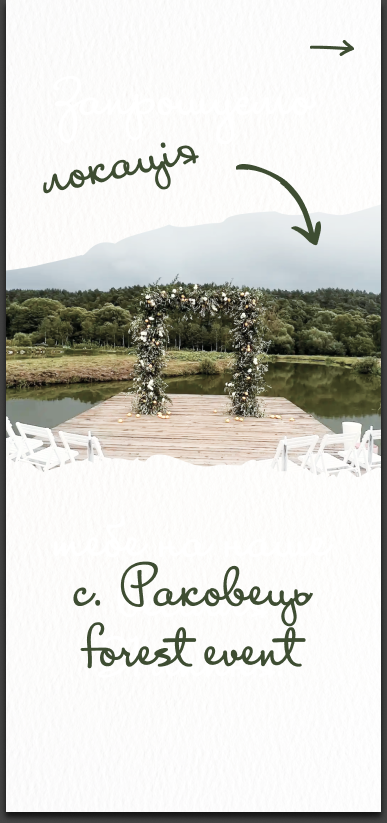
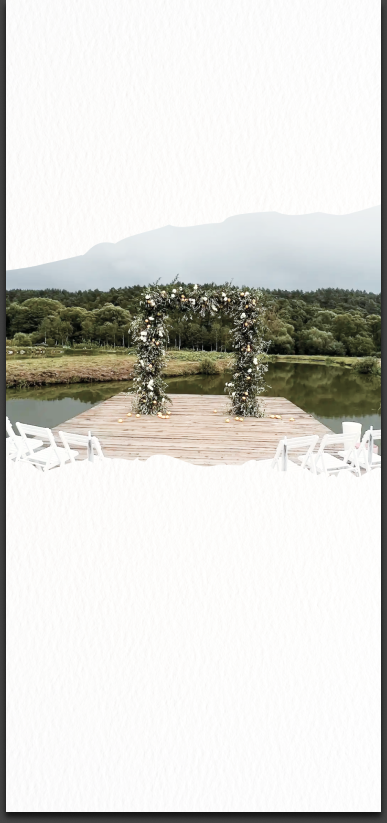
Added images to locations page

diff --git a/src/app/(ui)/[slug]/LocationPage.tsx b/src/app/(ui)/[slug]/LocationPage.tsx
@@ -1,6 +1,33 @@
-const LocationPage = () => (
-  // TODO: обрізається картинка
-  <div className='bg-[url(/location.png)] w-full h-full bg-center bg-cover bg-no-repeat flex justify-end items-start pt-2' />
-);
+import Image from 'next/image';
+
+const LocationPage = () => {
+  // TODO: Fix background
+  // TODO: Fix font
+  // TODO: Fix locations
+  return (
+    <div className='bg-[url(/location.png)] w-full h-screen bg-center bg-cover bg-no-repeat flex p-6'>
+      <button className='w-12.5 h-11'>
+        <Image
+          src='/right-arrow.png'
+          alt='стрілка вправо'
+          width={50}
+          height={14}
+        />
+      </button>
+      <span className=''>Локація</span>
+      <div>
+        <Image
+          src='/arrow-down.png'
+          alt='стрілка вниз'
+          width={85}
+          height={82}
+        />
+      </div>
+      <div className='self-end'>
+        <span className=''>с. Раковець forest event</span>
+      </div>
+    </div>
+  );
+};
 
 export default LocationPage;
